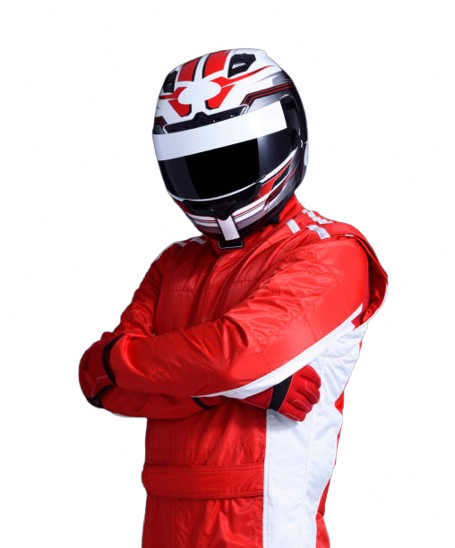
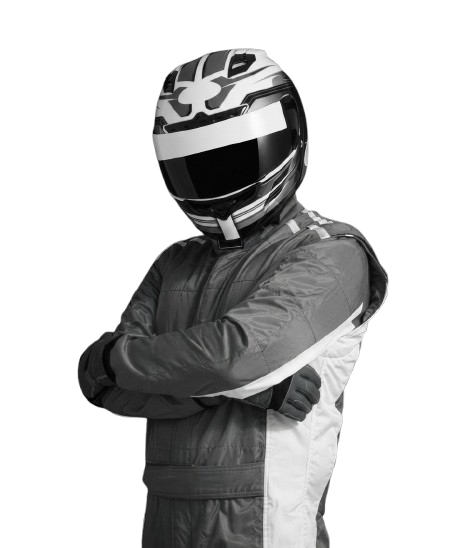
Agregando foto para piloto no encontrado

diff --git a/src/graphics/StartingGrid.jsx b/src/graphics/StartingGrid.jsx
@@ -1,10 +1,13 @@
 import { useState, useEffect } from 'react';
+import pilotoAnonimo from '../assets/piloto_anonimo.png';
+
 let ipcRenderer = null;
 if (typeof window !== 'undefined' && typeof window.require === 'function') {
   try {
     ipcRenderer = window.require('electron').ipcRenderer;
   } catch (e) {}
 }
+
 export default function StartingGrid({ drivers, config, isVisible, id = 'grid' }) {
   const [page, setPage] = useState(0);
 
@@ -21,48 +24,48 @@ export default function StartingGrid({ drivers, config, isVisible, id = 'grid' }
   const customBg = config[`design_${id}`];
   const bRad = config[`borderRadius_${id}`] || '8px';
   const animStyle = config[`animationStyle_${id}`] || 'slide';
-  
+
   // TIPO DE GRILLA: 'standard' o 'photos'
   const gridFormat = config?.gridFormat || 'standard';
   const itemsPerPage = gridFormat === 'photos' ? 2 : 2; // Ambos usan 2 por página ahora, pero listos para separar lógicas
 
-  let transformHidden = `scale(${config?.positions?.[id]?.scale || 1}) translateY(40px)`; 
-  if (animStyle === 'fade') transformHidden = `scale(${config?.positions?.[id]?.scale || 1})`; 
+  let transformHidden = `scale(${config?.positions?.[id]?.scale || 1}) translateY(40px)`;
+  if (animStyle === 'fade') transformHidden = `scale(${config?.positions?.[id]?.scale || 1})`;
   if (animStyle === 'zoom') transformHidden = `scale(${(config?.positions?.[id]?.scale || 1) * 0.9})`;
 
   useEffect(() => {
     if (!isVisible || drivers.length === 0) { setPage(0); return; }
   }, [isVisible, drivers]);
 
-useEffect(() => {
-  const totalPages = Math.ceil(drivers.length / itemsPerPage);
-  if (totalPages === 0) return;
+  useEffect(() => {
+    const totalPages = Math.ceil(drivers.length / itemsPerPage);
+    if (totalPages === 0) return;
 
-  const handleNext = () => setPage((prev) => (prev + 1) % totalPages);
-  const handlePrev = () => setPage((prev) => (prev - 1 + totalPages) % totalPages);
+    const handleNext = () => setPage((prev) => (prev + 1) % totalPages);
+    const handlePrev = () => setPage((prev) => (prev - 1 + totalPages) % totalPages);
 
-  if (ipcRenderer) {
-    // --- MODO ELECTRON: IPC directo, sin depender de la red ---
-    const ipcNext = () => handleNext();
-    const ipcPrev = () => handlePrev();
-    ipcRenderer.on('grid-next', ipcNext);
-    ipcRenderer.on('grid-prev', ipcPrev);
-    return () => {
-      ipcRenderer.removeListener('grid-next', ipcNext);
-      ipcRenderer.removeListener('grid-prev', ipcPrev);
-    };
-  } else {
-    // --- MODO NAVEGADOR: fallback por Socket.io (para preview fuera de Electron) ---
-    let socket;
-    import('socket.io-client').then(({ io }) => {
-      const host = window.location.hostname || 'localhost';
-      socket = io(`http://${host}:8080`);
-      socket.on('grid-next', handleNext);
-      socket.on('grid-prev', handlePrev);
-    });
-    return () => { if (socket) socket.disconnect(); };
-  }
-}, [drivers, itemsPerPage]);
+    if (ipcRenderer) {
+      // --- MODO ELECTRON: IPC directo, sin depender de la red ---
+      const ipcNext = () => handleNext();
+      const ipcPrev = () => handlePrev();
+      ipcRenderer.on('grid-next', ipcNext);
+      ipcRenderer.on('grid-prev', ipcPrev);
+      return () => {
+        ipcRenderer.removeListener('grid-next', ipcNext);
+        ipcRenderer.removeListener('grid-prev', ipcPrev);
+      };
+    } else {
+      // --- MODO NAVEGADOR: fallback por Socket.io (para preview fuera de Electron) ---
+      let socket;
+      import('socket.io-client').then(({ io }) => {
+        const host = window.location.hostname || 'localhost';
+        socket = io(`http://${host}:8080`);
+        socket.on('grid-next', handleNext);
+        socket.on('grid-prev', handlePrev);
+      });
+      return () => { if (socket) socket.disconnect(); };
+    }
+  }, [drivers, itemsPerPage]);
 
   const pos = config?.positions?.[id] || { x: 0, y: 0, scale: 1 };
   const currentDrivers = drivers.slice(page * itemsPerPage, (page + 1) * itemsPerPage);
@@ -71,13 +74,13 @@ useEffect(() => {
     <div style={{
       position: 'absolute', left: `${pos.x}px`, top: `${pos.y}px`,
       transformOrigin: 'top left',
-      width: gridFormat === 'photos' ? '1920px' : '1280px', 
+      width: gridFormat === 'photos' ? '1920px' : '1280px',
       height: gridFormat === 'photos' ? '1080px' : '720px',
       display: 'flex', flexDirection: 'column', alignItems: 'center', justifyContent: 'center',
       backgroundColor: 'transparent',
       zIndex: 30,
       transition: 'all 0.4s cubic-bezier(0.175, 0.885, 0.32, 1.275)',
-      opacity: isVisible ? 1 : 0, 
+      opacity: isVisible ? 1 : 0,
       transform: isVisible ? `scale(${pos.scale}) translateY(0)` : transformHidden,
       pointerEvents: isVisible ? 'auto' : 'none'
     }}>
@@ -94,7 +97,7 @@ useEffect(() => {
             backgroundColor: themeHeaderBg, color: themeTitleText, padding: '15px 40px',
             fontSize: '32px', fontWeight: '900', textTransform: 'uppercase',
             borderBottom: `6px solid ${themeMain}`, boxShadow: '0 10px 20px rgba(0,0,0,0.5)',
-            display: 'flex', alignItems: 'center', gap: '20px', borderRadius: bRad 
+            display: 'flex', alignItems: 'center', gap: '20px', borderRadius: bRad
           }}>
             {(config?.logo || config?.categoryLogo) && (
               <div style={{ display: 'flex', alignItems: 'center', gap: '15px', marginRight: '10px' }}>
@@ -108,9 +111,9 @@ useEffect(() => {
 
           <div key={`std-${page}`} className="grid-page" style={{ marginTop: '150px' }}>
             {currentDrivers.map((driver) => (
-              <DriverCardStandard 
+              <DriverCardStandard
                 key={driver.pos} driver={driver} config={config} customBg={customBg} bRad={bRad}
-                themeBg={themeBg} themeHeaderBg={themeHeaderBg} themeSecondary={themeSecondary} 
+                themeBg={themeBg} themeHeaderBg={themeHeaderBg} themeSecondary={themeSecondary}
                 themeAccent={themeAccent} themeNormalText={themeNormalText} themeNumberText={themeNumberText}
               />
             ))}
@@ -138,7 +141,7 @@ useEffect(() => {
           <div key={`photo-${page}`} className="grid-page" style={{ height: '100%', width: '100%', alignItems: 'flex-end', paddingBottom: '150px', position: 'relative' }}>
             {currentDrivers[0] && <PhotoDriverCard driver={currentDrivers[0]} align="left" config={config} themeMain={themeMain} themeAccent={themeAccent} themeHeaderBg={themeHeaderBg} />}
             {currentDrivers[1] && <PhotoDriverCard driver={currentDrivers[1]} align="right" config={config} themeMain={themeMain} themeAccent={themeAccent} themeHeaderBg={themeHeaderBg} />}
-            
+
             {/* INDICADOR DE FILA CENTRAL */}
             <div style={{ position: 'absolute', bottom: '80px', left: '50%', transform: 'translateX(-50%)', backgroundColor: themeMain, color: '#fff', padding: '10px 50px', fontSize: '30px', fontWeight: '900', fontStyle: 'italic', boxShadow: '0 10px 20px rgba(0,0,0,0.5)' }}>
                FILA {page + 1}
@@ -162,35 +165,33 @@ useEffect(() => {
 // TARJETA MODO ESTÁNDAR (La que ya tenías)
 // ----------------------------------------------------------------------------------
 function DriverCardStandard({ driver, config, customBg, bRad, themeBg, themeHeaderBg, themeSecondary, themeAccent, themeNormalText, themeNumberText }) {
-  const [imgSrc, setImgSrc] = useState(null);
+  const [imgSrc, setImgSrc] = useState(pilotoAnonimo);
   const hasCustomBg = !!customBg;
 
   useEffect(() => {
-    if (!config?.photosPath) { setImgSrc(null); return; }
+    if (!config?.photosPath) { setImgSrc(pilotoAnonimo); return; }
     const host = window.location.hostname || 'localhost';
     const photoUrl = `http://${host}:8080/photo/${driver.number}`;
     const img = new Image();
     img.onload = () => setImgSrc(photoUrl);
-    img.onerror = () => setImgSrc(null);
+    img.onerror = () => setImgSrc(pilotoAnonimo);
     img.src = photoUrl;
   }, [config?.photosPath, driver.number]);
 
   return (
-    <div style={{ 
-      display: 'flex', alignItems: 'center', 
-      backgroundColor: hasCustomBg ? 'transparent' : themeBg, 
+    <div style={{
+      display: 'flex', alignItems: 'center',
+      backgroundColor: hasCustomBg ? 'transparent' : themeBg,
       backgroundImage: hasCustomBg ? `url(${customBg})` : 'none',
       backgroundSize: '100% 100%', backgroundRepeat: 'no-repeat', backgroundPosition: 'center',
-      borderLeft: hasCustomBg ? 'none' : `8px solid ${themeSecondary}`, 
+      borderLeft: hasCustomBg ? 'none' : `8px solid ${themeSecondary}`,
       borderRadius: bRad, width: '450px', height: '110px',
-      boxShadow: hasCustomBg ? 'none' : '10px 15px 30px rgba(0,0,0,0.8)', 
-      position: 'relative', overflow: 'visible' 
+      boxShadow: hasCustomBg ? 'none' : '10px 15px 30px rgba(0,0,0,0.8)',
+      position: 'relative', overflow: 'visible'
     }}>
-      {imgSrc && (
-        <div style={{ position: 'absolute', right: '20px', bottom: '100%', marginBottom: '-20px', height: '210px', zIndex: 1, display: 'flex', alignItems: 'flex-end', justifyContent: 'center' }}>
-          <img src={imgSrc} alt={driver.name} style={{ height: '100%', objectFit: 'contain', filter: 'drop-shadow(-5px 5px 15px rgba(0,0,0,0.6))' }} />
-        </div>
-      )}
+      <div style={{ position: 'absolute', right: '20px', bottom: '100%', marginBottom: '-20px', height: '210px', zIndex: 1, display: 'flex', alignItems: 'flex-end', justifyContent: 'center' }}>
+        <img src={imgSrc} alt={driver.name} style={{ height: '100%', objectFit: 'contain', filter: 'drop-shadow(-5px 5px 15px rgba(0,0,0,0.6))' }} />
+      </div>
       <div style={{ width: '90px', backgroundColor: hasCustomBg ? 'transparent' : themeHeaderBg, height: '100%', display: 'flex', alignItems: 'center', justifyContent: 'center', fontSize: '48px', fontWeight: '900', color: themeNumberText, borderTopLeftRadius: bRad, borderBottomLeftRadius: bRad, zIndex: 2 }}>
         {driver.pos}
       </div>
@@ -210,16 +211,16 @@ function DriverCardStandard({ driver, config, customBg, bRad, themeBg, themeHead
 // NUEVA TARJETA MODO FOTOS (Cuerpo entero tipo Broadcast)
 // ----------------------------------------------------------------------------------
 function PhotoDriverCard({ driver, align, config, themeMain, themeAccent, themeHeaderBg }) {
-  const [imgSrc, setImgSrc] = useState(null);
+  const [imgSrc, setImgSrc] = useState(pilotoAnonimo);
   const isLeft = align === 'left';
 
   useEffect(() => {
-    if (!config?.photosPath) { setImgSrc(null); return; }
+    if (!config?.photosPath) { setImgSrc(pilotoAnonimo); return; }
     const host = window.location.hostname || 'localhost';
     const photoUrl = `http://${host}:8080/photo/${driver.number}`;
     const img = new Image();
     img.onload = () => setImgSrc(photoUrl);
-    img.onerror = () => setImgSrc(null);
+    img.onerror = () => setImgSrc(pilotoAnonimo);
     img.src = photoUrl;
   }, [config?.photosPath, driver.number]);
 
@@ -237,27 +238,25 @@ function PhotoDriverCard({ driver, align, config, themeMain, themeAccent, themeH
         justifyContent: 'flex-end'
     }}>
        {/* TEXTO P3 / P4 FLOTANTE */}
-       <div style={{ 
-           position: 'absolute', top: '150px', 
-           left: isLeft ? '-80px' : 'auto', right: !isLeft ? '-80px' : 'auto', 
-           fontSize: '80px', fontWeight: '900', color: '#e0e0e0', 
+       <div style={{
+           position: 'absolute', top: '150px',
+           left: isLeft ? '-80px' : 'auto', right: !isLeft ? '-80px' : 'auto',
+           fontSize: '80px', fontWeight: '900', color: '#e0e0e0',
            textShadow: '5px 5px 15px rgba(0,0,0,0.8)', zIndex: 1
        }}>
           P{driver.pos}
        </div>
 
-       {/* FOTO DEL PILOTO GIGANTE */}
-       {imgSrc && (
-           <img src={imgSrc} style={{ height: '100%', objectFit: 'contain', filter: 'drop-shadow(0px 15px 25px rgba(0,0,0,0.9))', zIndex: 2 }} />
-       )}
+       {/* FOTO DEL PILOTO GIGANTE (o genérica si no se encuentra) */}
+       <img src={imgSrc} style={{ height: '100%', objectFit: 'contain', filter: 'drop-shadow(0px 15px 25px rgba(0,0,0,0.9))', zIndex: 2 }} />
 
        {/* CAJA DE NOMBRE (TIPO REFERENCIA) */}
-       <div style={{ 
-           position: 'absolute', bottom: '-70px', width: '110%', 
-           backgroundColor: themeHeaderBg || '#050505', 
-           borderTop: `5px solid ${themeAccent || '#00e5ff'}`, 
-           padding: '18px 0', textAlign: 'center', 
-           boxShadow: '0 15px 30px rgba(0,0,0,0.9)', zIndex: 3 
+       <div style={{
+           position: 'absolute', bottom: '-70px', width: '110%',
+           backgroundColor: themeHeaderBg || '#050505',
+           borderTop: `5px solid ${themeAccent || '#00e5ff'}`,
+           padding: '18px 0', textAlign: 'center',
+           boxShadow: '0 15px 30px rgba(0,0,0,0.9)', zIndex: 3
        }}>
            <span style={{ color: '#fff', fontSize: '38px', fontWeight: '900', textTransform: 'uppercase', letterSpacing: '1px' }}>
                {driver.name}
